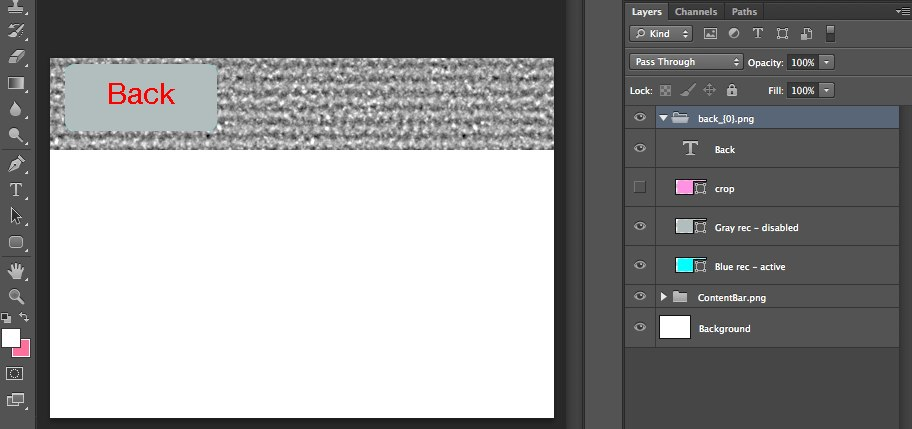
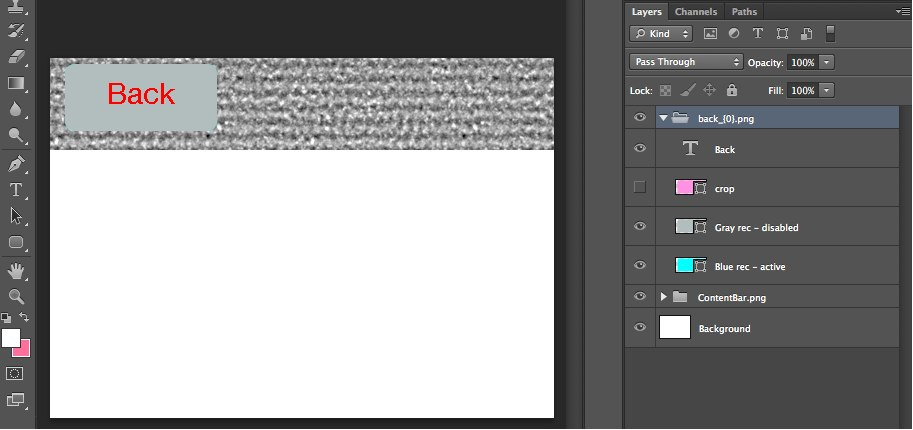
added a new retina example image and updated the screenshots to not be zoomed in

diff --git a/Super Export.md b/Super Export.md
@@ -80,7 +80,7 @@ It looks cryptic, but it just means that I have tagged some layers that should
 be swapped out for "{0}".  In my case, I've tagged a layers "active", "normal",
 and "disabled".
 
-![Bar Example](https://raw.github.com/bclubb/Photoshop-Scripts/master/BackExample.jpg)
+![Back Example](https://raw.github.com/bclubb/Photoshop-Scripts/master/BackExample.jpg)
 
 How do you tag a layer?  Easy, you just add a dash after the layer name, then
 write out the tags for that layer (comma separated).
@@ -102,7 +102,7 @@ annoying to have to re-save all those combinations.
 
 So here's how I name all the layers to make this happen automatically:
 
-![Bar Example](https://raw.github.com/bclubb/Photoshop-Scripts/master/PPExample.jpg)
+![Complex Tagging Example](https://raw.github.com/bclubb/Photoshop-Scripts/master/PPExample.jpg)
 
 The whole folder is named "{type}Button_{state}.png" because I have have two
 types of tags - a "type" (play or pause) and a "state" (normal, active, or
@@ -131,6 +131,8 @@ for @2x, then resize to the smaller version.
 
 To make this happen, just add @2x in your file name (the layer name) and
 a non @2x version is generated automatically.
+
+![Retina Example](https://raw.github.com/bclubb/Photoshop-Scripts/master/RetinaExample.jpg)
 
 For example, you might name a layer "Background@2x.png" which would create
 two files: "Background@2x.png" and another one (half the size) that's
